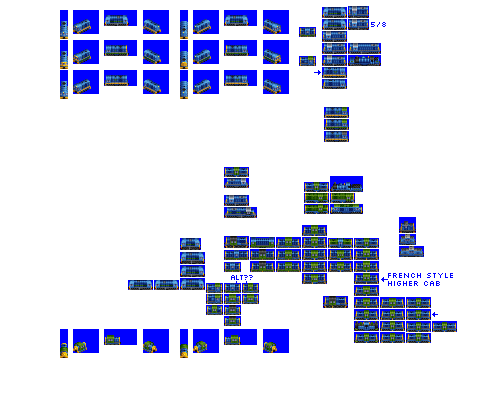
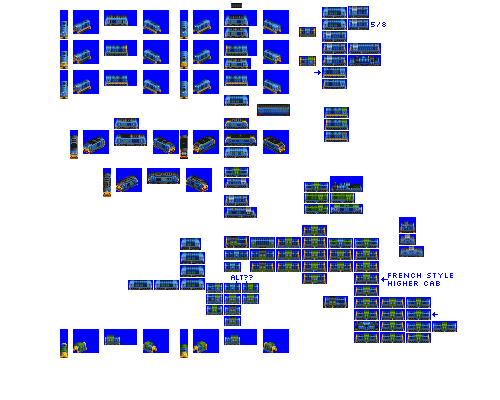
Change: WIP on gen 4 NG pony diesels

Changed region(s): [[0.12, 0.24, 0.6, 0.51], [0.45, 0.0, 0.51, 0.18], [0.21, 0.03, 0.27, 0.06]]

diff --git a/src/vehicles/pony/seven_star.py b/src/vehicles/pony/seven_star.py
@@ -6,7 +6,7 @@ def main(roster_id, **kwargs):
         roster_id=roster_id,
         id="seven_star",
         base_numeric_id=30870,
-        name="Seven Star",
+        name="Higuma",
         role="express",
         role_child_branch_num=-2,
         base_track_type_name="NG",
@@ -29,11 +29,11 @@ def main(roster_id, **kwargs):
         spriterow_num=0,
     )
 
-    # https://en.wikipedia.org/wiki/Euskotren_TD2000_series
-    # https://en.wikipedia.org/wiki/JR_Freight_Class_DF200#DF200-7000
+    # https://en.wikipedia.org/wiki/New_Zealand_DL_class_locomotive
+    # https://en.wikipedia.org/wiki/New_Zealand_DM_class_locomotive
     consist.description = (
         """"""
     )
-    consist.foamer_facts = """(Mitsubishi bo-bo-bo)"""
+    consist.foamer_facts = """(Stadler / Mitsubishi bo-bo-bo)"""
 
     return consist

diff --git a/src/vehicles/pony/osiris.py b/src/vehicles/pony/osiris.py
@@ -30,7 +30,7 @@ def main(roster_id, **kwargs):
     )
 
     # https://en.wikipedia.org/wiki/Euskotren_TD2000_series
-    # https://en.wikipedia.org/wiki/New_Zealand_DL_class_locomotive
+    # https://en.wikipedia.org/wiki/JR_Freight_Class_DF200#DF200-7000
     consist.description = """"""
     consist.foamer_facts = """"""
 
